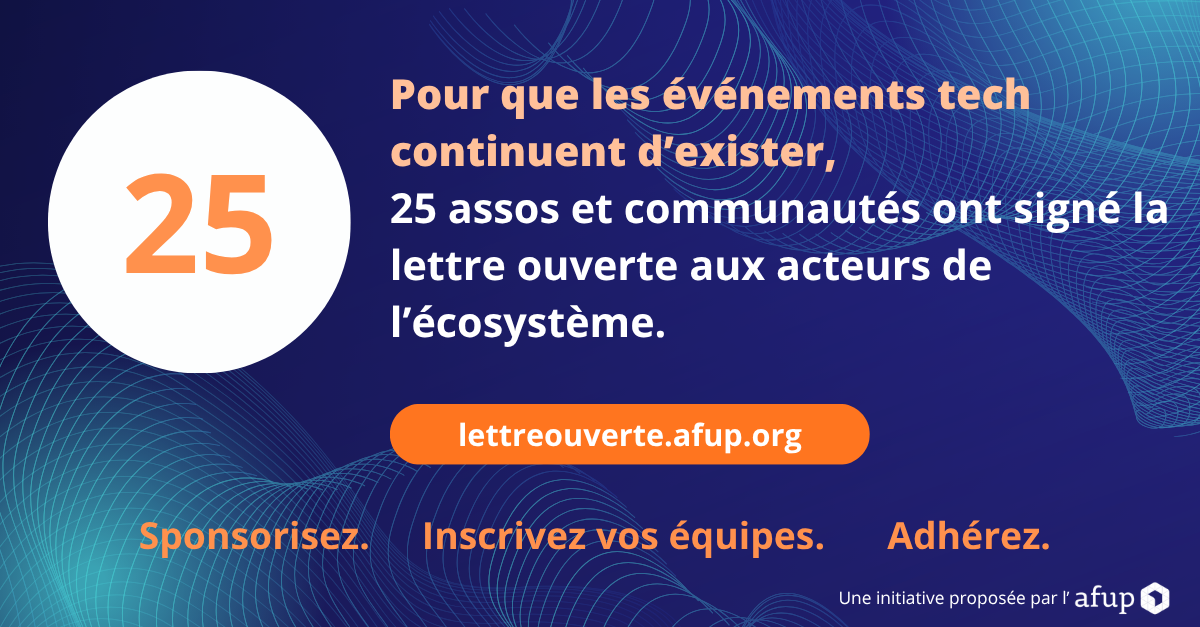
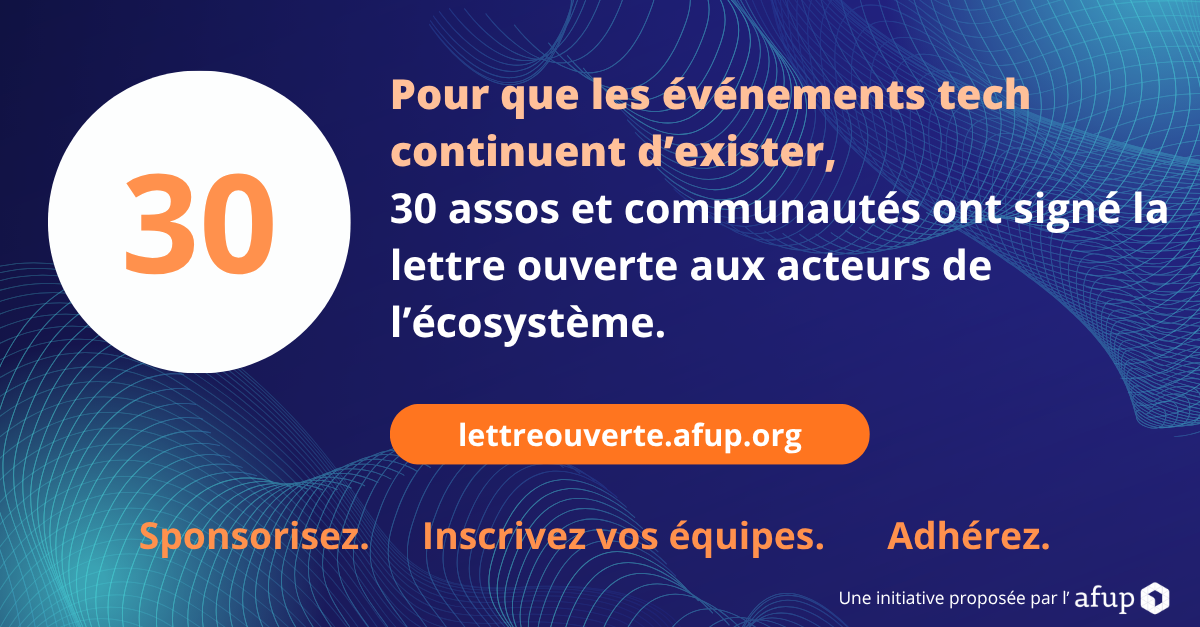
Ajout nouvelles organisations

Changed region(s): [[0.0925, 0.2727, 0.2467, 0.4545], [0.3083, 0.303, 0.37, 0.3636]]

diff --git a/index.html b/index.html
@@ -318,7 +318,7 @@ p a:not(.logo):hover,.footer__nav a:hover{color:var(--orange-hover);border-botto
 
 <header class="wrap header">
   <div class="header__brand">
-    <a class="logo header__logo" href="https://afup.org" target="_blank" rel="noopener"><img src="assets/afup/afup-icon.svg" alt="AFUP" width="265" height="90"></a>
+    <a class="logo header__logo" href="https://afup.org" target="_blank" rel="noopener"><img src="assets/afup/afup-icon.svg" alt="Logo d’AFUP" width="265" height="90"></a>
     <span class="header__sep" aria-hidden="true"></span>
     <span class="eyebrow">Lettre ouverte</span>
   </div>
@@ -339,7 +339,7 @@ p a:not(.logo):hover,.footer__nav a:hover{color:var(--orange-hover);border-botto
 <section class="wrap letter-section" id="lettre" aria-labelledby="lettre-titre">
   <article class="letter">
     <span class="eyebrow eyebrow--accent">La lettre</span>
-    <p class="letter__salutation" id="lettre-titre">Entreprises, développeurs et développeuses, décideurs et décideuses technologiques,</p>
+    <p class="letter__salutation" id="lettre-titre">Entreprises, développeurs et développeuses,<br />Décideurs et décideuses technologiques,</p>
     <p class="letter__opening">Les événements techniques traversent aujourd’hui une crise silencieuse. Budgets sponsoring resserrés, achats de billets en baisse, adhésions associatives en recul&nbsp;: partout, les mêmes signaux d’alerte s’allument et l’inquiétude s’installe au sein des organisations.</p>
     <p>Si rien ne change, nombre d’entre eux ne verront pas de nouvelle édition. Nous, organisateurs, organisatrices et associations tech, alertons aujourd’hui l’écosystème sur ce qui est en train de se jouer.</p>
 
@@ -385,37 +385,42 @@ p a:not(.logo):hover,.footer__nav a:hover{color:var(--orange-hover);border-botto
   <div class="rule signatories__head">
     <div>
       <span class="eyebrow">Signataires</span>
-      <h2 id="signataires-titre"><span class="signatories__count">25</span> organisations ont signé</h2>
+      <h2 id="signataires-titre"><span class="signatories__count">30</span> organisations ont déjà signé</h2>
     </div>
     <p class="signatories__invite">Votre organisation veut apparaître ici&nbsp;? Écrivez-nous à <a href="mailto:lettreouverte@afup.org">lettreouverte@afup.org</a>.</p>
   </div>
 
   <ul class="sigs">
-    <li class="sig"><a class="sig__inner" href="https://www.pycon.fr/2026/" target="_blank" rel="noopener"><span class="sig__mark"><span class="sig__logo"><img src="assets/logos/afpy.svg" alt="" loading="lazy" decoding="async"></span></span><span class="sig__name">AFPY</span></a></li>
-    <li class="sig"><a class="sig__inner" href="https://afup.org/" target="_blank" rel="noopener"><span class="sig__mark"><span class="sig__logo"><img src="assets/afup/afup-logo-full-color.svg" alt="" loading="lazy" decoding="async"></span></span><span class="sig__name">AFUP</span></a></li>
-    <li class="sig"><a class="sig__inner" href="https://agilestrasbourg.fr/" target="_blank" rel="noopener"><span class="sig__mark"><span class="sig__logo"><img src="assets/logos/agile-tour-strasbourg.png" alt="" loading="lazy" decoding="async"></span></span><span class="sig__name">Agile Tour Strasbourg</span></a></li>
-    <li class="sig"><a class="sig__inner" href="https://bdxio.fr/" target="_blank" rel="noopener"><span class="sig__mark"><span class="sig__logo"><img src="assets/logos/bdx-io.png" alt="" loading="lazy" decoding="async"></span></span><span class="sig__name">BDX I/O</span></a></li>
-    <li class="sig"><a class="sig__inner" href="https://cloudnord.fr/" target="_blank" rel="noopener"><span class="sig__mark"><span class="sig__logo"><img src="assets/logos/cloud-nord.png" alt="" loading="lazy" decoding="async"></span></span><span class="sig__name">Cloud Nord</span></a></li>
-    <li class="sig"><a class="sig__inner" href="https://laravel-france.com/" target="_blank" rel="noopener"><span class="sig__mark"><span class="sig__logo"><img src="assets/logos/laravel-france.png" alt="" loading="lazy" decoding="async"></span></span><span class="sig__name">Communauté Laravel France</span></a></li>
-    <li class="sig"><a class="sig__inner" href="https://symfony.com/" target="_blank" rel="noopener"><span class="sig__mark"><span class="sig__logo"><img src="assets/logos/symfony.svg" alt="" loading="lazy" decoding="async"></span></span><span class="sig__name">Communauté Symfony</span></a></li>
-    <li class="sig"><a class="sig__inner" href="https://devw.ai/" target="_blank" rel="noopener"><span class="sig__mark"><span class="sig__logo"><img src="assets/logos/dev-with-ai.png" alt="" loading="lazy" decoding="async"></span></span><span class="sig__name">Dev With AI</span></a></li>
-    <li class="sig"><a class="sig__inner" href="https://devlille.fr/" target="_blank" rel="noopener"><span class="sig__mark"><span class="sig__logo"><img src="assets/logos/devlille.svg" alt="" loading="lazy" decoding="async"></span></span><span class="sig__name">DevLille</span></a></li>
-    <li class="sig"><a class="sig__inner" href="https://www.devquest.fr/" target="_blank" rel="noopener"><span class="sig__mark"><span class="sig__logo"><img src="assets/logos/devquest.svg" alt="" loading="lazy" decoding="async"></span></span><span class="sig__name">DevQuest</span></a></li>
-    <li class="sig"><a class="sig__inner" href="https://www.lavajug.org/" target="_blank" rel="noopener"><span class="sig__mark"><span class="sig__logo"><img src="assets/logos/lavajug.png" alt="" loading="lazy" decoding="async"></span></span><span class="sig__name">LavaJUG</span></a></li>
-    <li class="sig"><a class="sig__inner" href="https://www.lyonjs.org/" target="_blank" rel="noopener"><span class="sig__mark"><span class="sig__logo"><img src="assets/logos/lyonjs.svg" alt="" loading="lazy" decoding="async"></span></span><span class="sig__name">LyonJS</span></a></li>
-    <li class="sig"><a class="sig__inner" href="https://mixitconf.org/" target="_blank" rel="noopener"><span class="sig__mark"><span class="sig__logo"><img src="assets/logos/mixit.svg" alt="" loading="lazy" decoding="async"></span></span><span class="sig__name">Mixit</span></a></li>
-    <li class="sig"><a class="sig__inner" href="https://opengento.fr/" target="_blank" rel="noopener"><span class="sig__mark"><span class="sig__logo"><img src="assets/logos/opengento.svg" alt="" loading="lazy" decoding="async"></span></span><span class="sig__name">OpenGento</span></a></li>
-    <li class="sig"><a class="sig__inner" href="https://www.paris-web.fr/" target="_blank" rel="noopener"><span class="sig__mark"><span class="sig__logo"><img src="assets/logos/paris-web.svg" alt="" loading="lazy" decoding="async"></span></span><span class="sig__name">Paris Web</span></a></li>
-    <li class="sig"><a class="sig__inner" href="https://thephp.foundation/" target="_blank" rel="noopener"><span class="sig__mark"><span class="sig__logo"><img src="assets/logos/php-foundation.png" alt="" loading="lazy" decoding="async"></span></span><span class="sig__name">PHP Foundation</span></a></li>
-    <li class="sig"><a class="sig__inner" href="https://www.meetup.com/fr-fr/python-afpy-lyon/" target="_blank" rel="noopener"><span class="sig__mark"><span class="sig__logo"><img src="assets/logos/python-lyon.png" alt="" loading="lazy" decoding="async"></span></span><span class="sig__name">Python Lyon</span></a></li>
-    <li class="sig"><a class="sig__inner" href="https://reactnativeconnection.io/" target="_blank" rel="noopener"><span class="sig__mark"><span class="sig__logo"><img src="assets/logos/react-native-connection.png" alt="" loading="lazy" decoding="async"></span></span><span class="sig__name">React Native Connection</span></a></li>
-    <li class="sig"><a class="sig__inner" href="https://snowcamp.io/" target="_blank" rel="noopener"><span class="sig__mark"><span class="sig__logo"><img src="assets/logos/snowcamp.png" alt="" loading="lazy" decoding="async"></span></span><span class="sig__name">SnowCamp</span></a></li>
-    <li class="sig"><a class="sig__inner" href="https://sunny-tech.io/" target="_blank" rel="noopener"><span class="sig__mark"><span class="sig__logo"><img src="assets/logos/sunny-tech.svg" alt="" loading="lazy" decoding="async"></span></span><span class="sig__name">Sunny Tech</span></a></li>
-    <li class="sig"><a class="sig__inner" href="https://swiftconnection.io/" target="_blank" rel="noopener"><span class="sig__mark"><span class="sig__logo"><img src="assets/logos/swift-connection.png" alt="" loading="lazy" decoding="async"></span></span><span class="sig__name">Swift Connection</span></a></li>
-    <li class="sig"><a class="sig__inner" href="https://syliusparty.emagma.fr/" target="_blank" rel="noopener"><span class="sig__mark"><span class="sig__logo"><img src="assets/logos/sylius-party.svg" alt="" loading="lazy" decoding="async"></span></span><span class="sig__name">Sylius Party</span></a></li>
-    <li class="sig"><a class="sig__inner" href="https://techwork.events/" target="_blank" rel="noopener"><span class="sig__mark"><span class="sig__logo"><img src="assets/logos/techwork.png" alt="" loading="lazy" decoding="async"></span></span><span class="sig__name">Tech’Work</span></a></li>
-    <li class="sig"><a class="sig__inner" href="https://www.volcamp.io/" target="_blank" rel="noopener"><span class="sig__mark"><span class="sig__logo"><img src="assets/logos/volcamp.svg" alt="" loading="lazy" decoding="async"></span></span><span class="sig__name">Volcamp</span></a></li>
-    <li class="sig"><a class="sig__inner" href="https://webdays.events/" target="_blank" rel="noopener"><span class="sig__mark"><span class="sig__logo"><img src="assets/logos/web-days.png" alt="" loading="lazy" decoding="async"></span></span><span class="sig__name">Web Days — Aix-en-Provence</span></a></li>
+    <li class="sig"><a class="sig__inner" href="https://www.pycon.fr/2026/" target="_blank" rel="noopener"><span class="sig__mark"><span class="sig__logo"><img src="assets/logos/afpy.svg" alt="Logo d’AFPY" loading="lazy" decoding="async"></span></span><span class="sig__name">AFPY</span></a></li>
+    <li class="sig"><a class="sig__inner" href="https://afup.org/" target="_blank" rel="noopener"><span class="sig__mark"><span class="sig__logo"><img src="assets/afup/afup-icon+name-color.svg" alt="Logo d’AFUP" loading="lazy" decoding="async"></span></span><span class="sig__name">AFUP</span></a></li>
+    <li class="sig"><a class="sig__inner" href="https://agilenantes.org/" target="_blank" rel="noopener"><span class="sig__mark"><span class="sig__logo"><img src="assets/logos/agile-nantes.png" alt="Logo d’Agile Nantes" loading="lazy" decoding="async"></span></span><span class="sig__name">Agile Nantes</span></a></li>
+    <li class="sig"><a class="sig__inner" href="https://agilestrasbourg.fr/" target="_blank" rel="noopener"><span class="sig__mark"><span class="sig__logo"><img src="assets/logos/agile-tour-strasbourg.png" alt="Logo d’Agile Tour Strasbourg" loading="lazy" decoding="async"></span></span><span class="sig__name">Agile Tour Strasbourg</span></a></li>
+    <li class="sig"><a class="sig__inner" href="https://bdxio.fr/" target="_blank" rel="noopener"><span class="sig__mark"><span class="sig__logo"><img src="assets/logos/bdx-io.png" alt="Logo de BDX I/O" loading="lazy" decoding="async"></span></span><span class="sig__name">BDX I/O</span></a></li>
+    <li class="sig"><a class="sig__inner" href="https://www.breizhcamp.org/" target="_blank" rel="noopener"><span class="sig__mark"><span class="sig__logo"><img src="assets/logos/breizhcamp.svg" alt="Logo de BreizhCamp" loading="lazy" decoding="async"></span></span><span class="sig__name">BreizhCamp</span></a></li>
+    <li class="sig"><a class="sig__inner" href="https://cloudnative-provence.fr/fr/" target="_blank" rel="noopener"><span class="sig__mark"><span class="sig__logo"><img src="assets/logos/cloud-native-provence.png" alt="Logo de Cloud Native Provence" loading="lazy" decoding="async"></span></span><span class="sig__name">Cloud Native Provence</span></a></li>
+    <li class="sig"><a class="sig__inner" href="https://cloudnord.fr/" target="_blank" rel="noopener"><span class="sig__mark"><span class="sig__logo"><img src="assets/logos/cloud-nord.png" alt="Logo de Cloud Nord" loading="lazy" decoding="async"></span></span><span class="sig__name">Cloud Nord</span></a></li>
+    <li class="sig"><a class="sig__inner" href="https://laravel-france.com/" target="_blank" rel="noopener"><span class="sig__mark"><span class="sig__logo"><img src="assets/logos/laravel-france.png" alt="Logo de Communauté Laravel France" loading="lazy" decoding="async"></span></span><span class="sig__name">Communauté Laravel France</span></a></li>
+    <li class="sig"><a class="sig__inner" href="https://symfony.com/" target="_blank" rel="noopener"><span class="sig__mark"><span class="sig__logo"><img src="assets/logos/symfony.svg" alt="Logo de Communauté Symfony" loading="lazy" decoding="async"></span></span><span class="sig__name">Communauté Symfony</span></a></li>
+    <li class="sig"><a class="sig__inner" href="https://cto-de-lyon.fr/" target="_blank" rel="noopener"><span class="sig__mark"><span class="sig__logo"><img src="assets/logos/cto-de-lyon.png" alt="Logo de CTO de Lyon" loading="lazy" decoding="async"></span></span><span class="sig__name">CTO de Lyon</span></a></li>
+    <li class="sig"><a class="sig__inner" href="https://devw.ai/" target="_blank" rel="noopener"><span class="sig__mark"><span class="sig__logo"><img src="assets/logos/dev-with-ai.png" alt="Logo de Dev With AI" loading="lazy" decoding="async"></span></span><span class="sig__name">Dev With AI</span></a></li>
+    <li class="sig"><a class="sig__inner" href="https://devlille.fr/" target="_blank" rel="noopener"><span class="sig__mark"><span class="sig__logo"><img src="assets/logos/devlille.svg" alt="Logo de DevLille" loading="lazy" decoding="async"></span></span><span class="sig__name">DevLille</span></a></li>
+    <li class="sig"><a class="sig__inner" href="https://www.devquest.fr/" target="_blank" rel="noopener"><span class="sig__mark"><span class="sig__logo"><img src="assets/logos/devquest.svg" alt="Logo de DevQuest" loading="lazy" decoding="async"></span></span><span class="sig__name">DevQuest</span></a></li>
+    <li class="sig"><a class="sig__inner" href="https://www.drupal.fr/" target="_blank" rel="noopener"><span class="sig__mark"><span class="sig__logo"><img src="assets/logos/drupal-france.png" alt="Logo de Drupal France" loading="lazy" decoding="async"></span></span><span class="sig__name">Drupal France</span></a></li>
+    <li class="sig"><a class="sig__inner" href="https://www.lavajug.org/" target="_blank" rel="noopener"><span class="sig__mark"><span class="sig__logo"><img src="assets/logos/lavajug.png" alt="Logo de LavaJUG" loading="lazy" decoding="async"></span></span><span class="sig__name">LavaJUG</span></a></li>
+    <li class="sig"><a class="sig__inner" href="https://www.lyonjs.org/" target="_blank" rel="noopener"><span class="sig__mark"><span class="sig__logo"><img src="assets/logos/lyonjs.svg" alt="Logo de LyonJS" loading="lazy" decoding="async"></span></span><span class="sig__name">LyonJS</span></a></li>
+    <li class="sig"><a class="sig__inner" href="https://mixitconf.org/" target="_blank" rel="noopener"><span class="sig__mark"><span class="sig__logo"><img src="assets/logos/mixit.svg" alt="Logo de Mixit" loading="lazy" decoding="async"></span></span><span class="sig__name">Mixit</span></a></li>
+    <li class="sig"><a class="sig__inner" href="https://opengento.fr/" target="_blank" rel="noopener"><span class="sig__mark"><span class="sig__logo"><img src="assets/logos/opengento.svg" alt="Logo d’OpenGento" loading="lazy" decoding="async"></span></span><span class="sig__name">OpenGento</span></a></li>
+    <li class="sig"><a class="sig__inner" href="https://www.paris-web.fr/" target="_blank" rel="noopener"><span class="sig__mark"><span class="sig__logo"><img src="assets/logos/paris-web.svg" alt="Logo de Paris Web" loading="lazy" decoding="async"></span></span><span class="sig__name">Paris Web</span></a></li>
+    <li class="sig"><a class="sig__inner" href="https://thephp.foundation/" target="_blank" rel="noopener"><span class="sig__mark"><span class="sig__logo"><img src="assets/logos/php-foundation.png" alt="Logo de PHP Foundation" loading="lazy" decoding="async"></span></span><span class="sig__name">PHP Foundation</span></a></li>
+    <li class="sig"><a class="sig__inner" href="https://www.meetup.com/fr-fr/python-afpy-lyon/" target="_blank" rel="noopener"><span class="sig__mark"><span class="sig__logo"><img src="assets/logos/python-lyon.png" alt="Logo de Python Lyon" loading="lazy" decoding="async"></span></span><span class="sig__name">Python Lyon</span></a></li>
+    <li class="sig"><a class="sig__inner" href="https://reactnativeconnection.io/" target="_blank" rel="noopener"><span class="sig__mark"><span class="sig__logo"><img src="assets/logos/react-native-connection.png" alt="Logo de React Native Connection" loading="lazy" decoding="async"></span></span><span class="sig__name">React Native Connection</span></a></li>
+    <li class="sig"><a class="sig__inner" href="https://snowcamp.io/" target="_blank" rel="noopener"><span class="sig__mark"><span class="sig__logo"><img src="assets/logos/snowcamp.png" alt="Logo de SnowCamp" loading="lazy" decoding="async"></span></span><span class="sig__name">SnowCamp</span></a></li>
+    <li class="sig"><a class="sig__inner" href="https://sunny-tech.io/" target="_blank" rel="noopener"><span class="sig__mark"><span class="sig__logo"><img src="assets/logos/sunny-tech.svg" alt="Logo de Sunny Tech" loading="lazy" decoding="async"></span></span><span class="sig__name">Sunny Tech</span></a></li>
+    <li class="sig"><a class="sig__inner" href="https://swiftconnection.io/" target="_blank" rel="noopener"><span class="sig__mark"><span class="sig__logo"><img src="assets/logos/swift-connection.png" alt="Logo de Swift Connection" loading="lazy" decoding="async"></span></span><span class="sig__name">Swift Connection</span></a></li>
+    <li class="sig"><a class="sig__inner" href="https://syliusparty.emagma.fr/" target="_blank" rel="noopener"><span class="sig__mark"><span class="sig__logo"><img src="assets/logos/sylius-party.svg" alt="Logo de Sylius Party" loading="lazy" decoding="async"></span></span><span class="sig__name">Sylius Party</span></a></li>
+    <li class="sig"><a class="sig__inner" href="https://techwork.events/" target="_blank" rel="noopener"><span class="sig__mark"><span class="sig__logo"><img src="assets/logos/techwork.png" alt="Logo de Tech’Work" loading="lazy" decoding="async"></span></span><span class="sig__name">Tech’Work</span></a></li>
+    <li class="sig"><a class="sig__inner" href="https://www.volcamp.io/" target="_blank" rel="noopener"><span class="sig__mark"><span class="sig__logo"><img src="assets/logos/volcamp.svg" alt="Logo de Volcamp" loading="lazy" decoding="async"></span></span><span class="sig__name">Volcamp</span></a></li>
+    <li class="sig"><a class="sig__inner" href="https://webdays.events/" target="_blank" rel="noopener"><span class="sig__mark"><span class="sig__logo"><img src="assets/logos/web-days.png" alt="Logo de Web Days" loading="lazy" decoding="async"></span></span><span class="sig__name">Web Days</span></a></li>
   </ul>
 </section>
 <!--
@@ -461,8 +466,8 @@ p a:not(.logo):hover,.footer__nav a:hover{color:var(--orange-hover);border-botto
       <p class="share__intro">Un partage atteint les personnes qui décident des budgets. C’est l’action la plus rapide.</p>
       <div class="share__actions">
         <a class="btn btn--primary btn--md" href="https://www.linkedin.com/sharing/share-offsite/?url=https%3A%2F%2Flettreouverte.afup.org" target="_blank" rel="noopener">LinkedIn</a>
-        <a class="btn btn--ghost btn--md" href="https://x.com/intent/post?url=https%3A%2F%2Flettreouverte.afup.org&amp;text=Les%20%C3%A9v%C3%A9nements%20techniques%20qui%20m%E2%80%99ont%20form%C3%A9%C2%B7e%20risquent%20de%20dispara%C3%AEtre%2C%20faute%20de%20sponsors%20et%20de%20billets%20vendus.%20Si%20votre%20entreprise%20en%20profite%2C%20rendez-le%20lui%20%3A%20sponsorisez%2C%20achetez%20des%20places%2C%20adh%C3%A9rez." target="_blank" rel="noopener">X</a>
-        <a class="btn btn--ghost btn--md" href="https://bsky.app/intent/compose?text=Les%20%C3%A9v%C3%A9nements%20techniques%20qui%20m%E2%80%99ont%20form%C3%A9%C2%B7e%20risquent%20de%20dispara%C3%AEtre%2C%20faute%20de%20sponsors%20et%20de%20billets%20vendus.%20Si%20votre%20entreprise%20en%20profite%2C%20rendez-le%20lui%20%3A%20sponsorisez%2C%20achetez%20des%20places%2C%20adh%C3%A9rez.%20https%3A%2F%2Flettreouverte.afup.org" target="_blank" rel="noopener">Bluesky</a>
+        <a class="btn btn--ghost btn--md" href="https://x.com/intent/post?url=https%3A%2F%2Flettreouverte.afup.org&amp;text=Les%20%C3%A9v%C3%A9nements%20techniques%20qui%20m%E2%80%99ont%20form%C3%A9%C2%B7e%20risquent%20de%20dispara%C3%AEtre%2C%20faute%20de%20sponsors%20et%20de%20billets%20vendus.%20Si%20votre%20entreprise%20en%20profite%2C%20rendez-le%20leur%20%3A%20sponsorisez%2C%20achetez%20des%20places%2C%20adh%C3%A9rez." target="_blank" rel="noopener">X</a>
+        <a class="btn btn--ghost btn--md" href="https://bsky.app/intent/compose?text=Les%20%C3%A9v%C3%A9nements%20techniques%20qui%20m%E2%80%99ont%20form%C3%A9%C2%B7e%20risquent%20de%20dispara%C3%AEtre%2C%20faute%20de%20sponsors%20et%20de%20billets%20vendus.%20Si%20votre%20entreprise%20en%20profite%2C%20rendez-le%20leur%20%3A%20sponsorisez%2C%20achetez%20des%20places%2C%20adh%C3%A9rez.%20https%3A%2F%2Flettreouverte.afup.org" target="_blank" rel="noopener">Bluesky</a>
         <a class="btn btn--ghost btn--md" href="mailto:lettreouverte@afup.org">Signer la lettre</a>
       </div>
     </div>
@@ -638,6 +643,21 @@ p a:not(.logo):hover,.footer__nav a:hover{color:var(--orange-hover);border-botto
         },
         {
           "@id": "https://lettreouverte.afup.org/#org-web-days-aix-en-provence"
+        },
+        {
+          "@id": "https://lettreouverte.afup.org/#org-agile-nantes"
+        },
+        {
+          "@id": "https://lettreouverte.afup.org/#org-breizhcamp"
+        },
+        {
+          "@id": "https://lettreouverte.afup.org/#org-cloud-native-provence"
+        },
+        {
+          "@id": "https://lettreouverte.afup.org/#org-cto-de-lyon"
+        },
+        {
+          "@id": "https://lettreouverte.afup.org/#org-drupal-france"
         }
       ],
       "articleSection": [
@@ -873,9 +893,44 @@ p a:not(.logo):hover,.footer__nav a:hover{color:var(--orange-hover);border-botto
     {
       "@type": "Organization",
       "@id": "https://lettreouverte.afup.org/#org-web-days-aix-en-provence",
-      "name": "Web Days — Aix-en-Provence",
+      "name": "Web Days",
       "url": "https://webdays.events/",
       "logo": "https://lettreouverte.afup.org/assets/logos/web-days.png"
+    },
+    {
+      "@type": "Organization",
+      "@id": "https://lettreouverte.afup.org/#org-agile-nantes",
+      "name": "Agile Nantes",
+      "url": "https://agilenantes.org/",
+      "logo": "https://lettreouverte.afup.org/assets/logos/agile-nantes.png"
+    },
+    {
+      "@type": "Organization",
+      "@id": "https://lettreouverte.afup.org/#org-breizhcamp",
+      "name": "BreizhCamp",
+      "url": "https://www.breizhcamp.org/",
+      "logo": "https://lettreouverte.afup.org/assets/logos/breizhcamp.svg"
+    },
+    {
+      "@type": "Organization",
+      "@id": "https://lettreouverte.afup.org/#org-cloud-native-provence",
+      "name": "Cloud Native Provence",
+      "url": "https://cloudnative-provence.fr/fr/",
+      "logo": "https://lettreouverte.afup.org/assets/logos/cloud-native-provence.png"
+    },
+    {
+      "@type": "Organization",
+      "@id": "https://lettreouverte.afup.org/#org-cto-de-lyon",
+      "name": "CTO de Lyon",
+      "url": "https://cto-de-lyon.fr/",
+      "logo": "https://lettreouverte.afup.org/assets/logos/cto-de-lyon.png"
+    },
+    {
+      "@type": "Organization",
+      "@id": "https://lettreouverte.afup.org/#org-drupal-france",
+      "name": "Drupal France",
+      "url": "https://www.drupal.fr/",
+      "logo": "https://lettreouverte.afup.org/assets/logos/drupal-france.png"
     }
   ]
 }</script>
